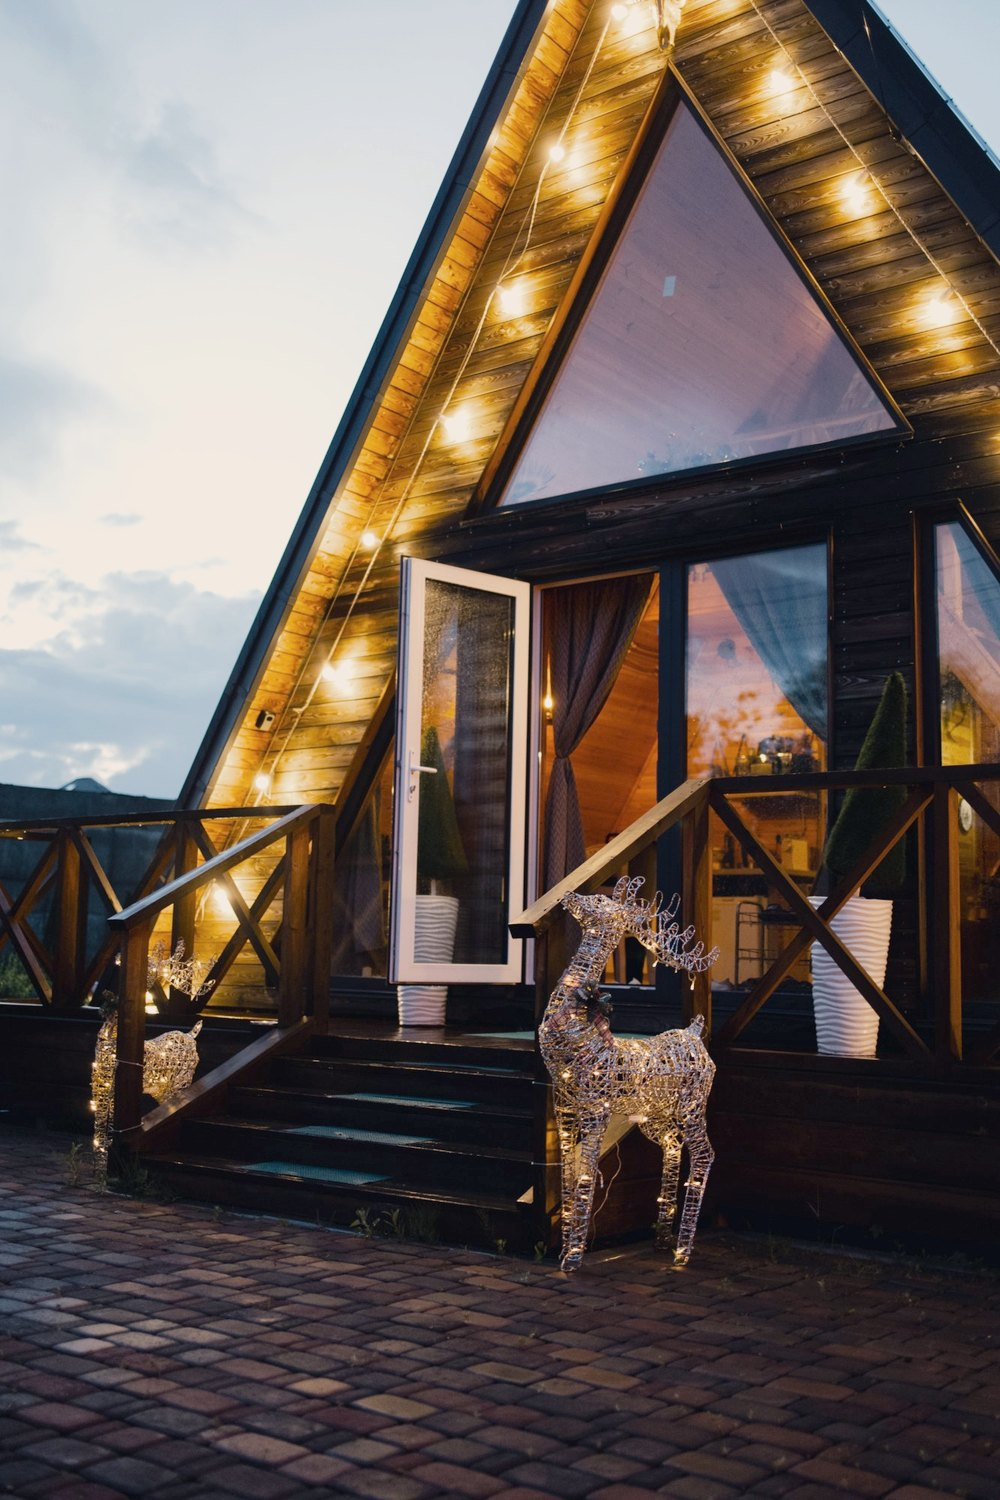
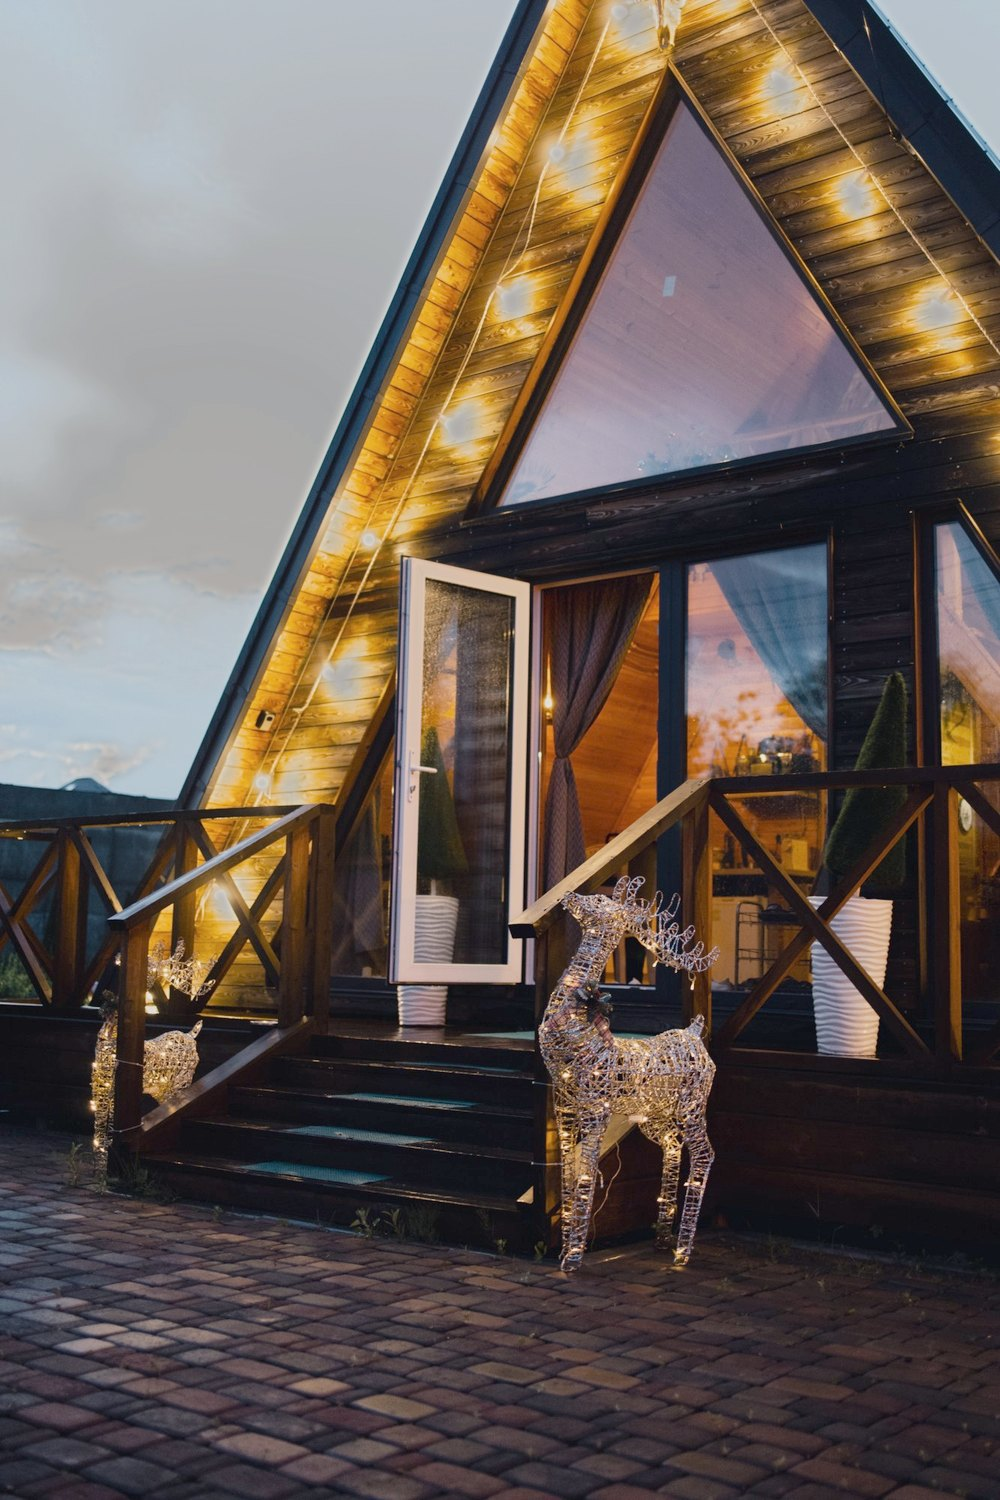
Clean neon crop, hierarchy by bold key words, chips removed, chan guys photo

diff --git a/index.html b/index.html
@@ -77,6 +77,8 @@ a.btn,a.mini{text-decoration:none}
 .card .price{margin:6px 0 4px;white-space:nowrap}
 ul li b{font-weight:700;color:#2B2118}ul li .m{color:#8a7a68;font-weight:500}
 .ln{display:none}
+.ov span.m b{display:inline;font-family:inherit;font-size:inherit;line-height:inherit;margin:0;color:#F4EFE6;font-weight:700}
+.ov span.m{color:#9d9788}
 .ask{font-size:12px;color:#6b5a48;margin-top:12px}
 .cta{display:grid;grid-template-columns:1fr 1fr;gap:8px;margin-top:6px}
 .cta a{display:block;text-align:center;border-radius:11px;padding:11px;font-size:14px;font-weight:600;text-decoration:none;color:#2B2118;background:#E3A857}
@@ -145,7 +147,7 @@ h2{font-size:26px;line-height:1.15;margin:34px 0 14px}
 <div id="fx"></div>
 <div class="wrap">
 
-<div class="top"><img src="logo.png" alt="Не тот лес"><b>НЕ ТОТ ЛЕС</b><span>Дом с баней и чаном · Хабаровск, Узорная 8</span></div>
+<div class="top"><img src="logo.png" alt="Не тот лес"><b>НЕ ТОТ ЛЕС</b><span>Хабаровск, Узорная 8</span></div>
 <img class="hero" src="p30.jpg" alt="Афрейм вечером с гирляндами и светящимися оленями">
 
 <h1>Дом с баней и чаном<br>в Хабаровске</h1>
@@ -163,7 +165,7 @@ h2{font-size:26px;line-height:1.15;margin:34px 0 14px}
 </div>
 <div class="stars">4,6 ★ <span style="color:#B9B3A6;font-weight:400;font-size:13px">в 2ГИС, 143 отзыва</span></div>
 
-<div class="ov" style="margin-top:18px"><img src="p41.jpg" alt="Неоновая вывеска Не тот лес" style="height:480px;object-position:50% 68%"><div><em>ВАС ЖДЁТ</em><b>Вечер, который хочется повторить</b><span class="m">Хабаровск, Узорная 8</span></div></div>
+<div class="ov" style="margin-top:18px"><img src="p41.jpg" alt="Неоновая вывеска Не тот лес" style="height:440px;object-position:50% 0%"><div><em>ВАС ЖДЁТ</em><b>Вечер, который хочется повторить</b><span class="m">Хабаровск, Узорная 8</span></div></div>
 <h2 id="tariffs" style="scroll-margin-top:12px">Выберите формат отдыха</h2>
 <div class="card tap" data-t="Романтика для пары" data-p="от 12 000 ₽, суббота 16 000 ₽">
 <img class="cardimg" src="p27.jpg" alt="Романтика для пары" style="object-position:50% 78%;height:210px">
@@ -174,6 +176,7 @@ h2{font-size:26px;line-height:1.15;margin:34px 0 14px}
 <div class="pick">Выбрать этот тариф ›</div>
 </div>
 <div class="card tap" style="margin-top:10px" data-t="Компания до 6 человек" data-p="от 15 000 ₽, суббота 18 000 ₽">
+<img class="cardimg" src="p44.jpg" alt="Компания в чане" style="object-position:50% 25%;height:210px">
 <div class="lab">Компания до 6 человек</div>
 <div class="price">от 15 000 ₽</div>
 <div class="small">суббота 18 000 ₽</div>
@@ -190,12 +193,12 @@ h2{font-size:26px;line-height:1.15;margin:34px 0 14px}
 </div>
 
 <h2>Ваш вечер у нас</h2>
-<div class="ov"><img src="p36.jpg" alt="Афрейм на закате" style="object-position:50% 30%"><div><em>15:00 · ЗАЕЗД</em><b>Тёплый афрейм</b><i class="chip">С 15:00 · выезд до 12:00</i><br><span class="m">Гирлянды по фасаду и светящиеся олени у крыльца</span></div></div>
-<div class="ov"><img src="p38.jpg" alt="Отдых в бане" style="object-position:50% 60%"><div><em>БАНЯ</em><b>Сибирский кедр</b><i class="chip">7 000 ₽ · затопка включена</i><br><span class="m">Панорамное окно и белые банные халаты</span></div></div>
-<div class="ov"><img src="p28.jpg" alt="Парение в бане" style="object-position:50% 35%"><div><em>ПАР</em><b>Пар по-сибирски</b><span class="m">Сибирский кедр и белые банные халаты</span></div></div>
-<div class="ov"><img src="p40.jpg" alt="Чан с подсветкой" style="object-position:50% 25%"><div><em>ЧАН</em><b>Чан на 6 человек</b><i class="chip">7 000 ₽ · затопка включена</i><br><span class="m">Вода из источника, подсветка вечером</span></div></div>
-<div class="ov"><img src="p29.jpg" alt="Территория с подсветкой" style="object-position:50% 70%"><div><em>ТЕРРИТОРИЯ</em><b>Вечер в огнях</b><span class="m">Крыльцо, светящиеся олени, вся территория освещена</span></div></div>
-<div class="ov"><img src="p35.jpg" alt="Беседка" style="object-position:50% 60%"><div><em>БЕСЕДКА</em><b>Беседка до 15 человек</b><i class="chip">Мангал и решётки бесплатно</i><br><span class="m">Мягкие диваны и гирлянды</span></div></div>
+<div class="ov"><img src="p36.jpg" alt="Афрейм на закате" style="object-position:50% 30%"><div><em>ЗАЕЗД</em><b>Тёплый афрейм</b><span class="m"><b>Гирлянды по фасаду</b> и светящиеся олени у крыльца</span></div></div>
+<div class="ov"><img src="p38.jpg" alt="Отдых в бане" style="object-position:50% 60%"><div><em>БАНЯ</em><b>Сибирский кедр</b><span class="m"><b>Панорамное окно</b> и белые банные халаты</span></div></div>
+<div class="ov"><img src="p28.jpg" alt="Парение в бане" style="object-position:50% 35%"><div><em>ПАР</em><b>Пар по-сибирски</b><span class="m"><b>Халаты и шапочки</b> и всё необходимое, чтобы напариться</span></div></div>
+<div class="ov"><img src="p40.jpg" alt="Чан с подсветкой" style="object-position:50% 25%"><div><em>ЧАН</em><b>Чан на 6 человек</b><span class="m"><b>Вода из источника</b>, подсветка вечером</span></div></div>
+<div class="ov"><img src="p29.jpg" alt="Территория с подсветкой" style="object-position:50% 70%"><div><em>ТЕРРИТОРИЯ</em><b>Вечер в огнях</b><span class="m"><b>Светящиеся олени</b> и вся территория освещена</span></div></div>
+<div class="ov"><img src="p35.jpg" alt="Беседка" style="object-position:50% 60%"><div><em>БЕСЕДКА</em><b>Беседка до 15 человек</b><span class="m"><b>Мангал и решётки бесплатно</b>, мягкие диваны и гирлянды</span></div></div>
 
 <h2>Условия проживания</h2>
 <div class="card"><ul>
@@ -203,7 +206,6 @@ h2{font-size:26px;line-height:1.15;margin:34px 0 14px}
 <li><b>С питомцами</b> <span class="m">можно, без доплаты</span></li>
 <li><b>Баня и чан</b> <span class="m">оплачиваются отдельно, затопка включена</span></li>
 <li><b>Мангал и решётки</b> <span class="m">бесплатно</span></li>
-<li><b>Уборка</b> <span class="m">после выезда на нас</span></li>
 <li><b>Оплата</b> <span class="m">наличные, перевод, карта</span></li>
 </ul></div>
 
